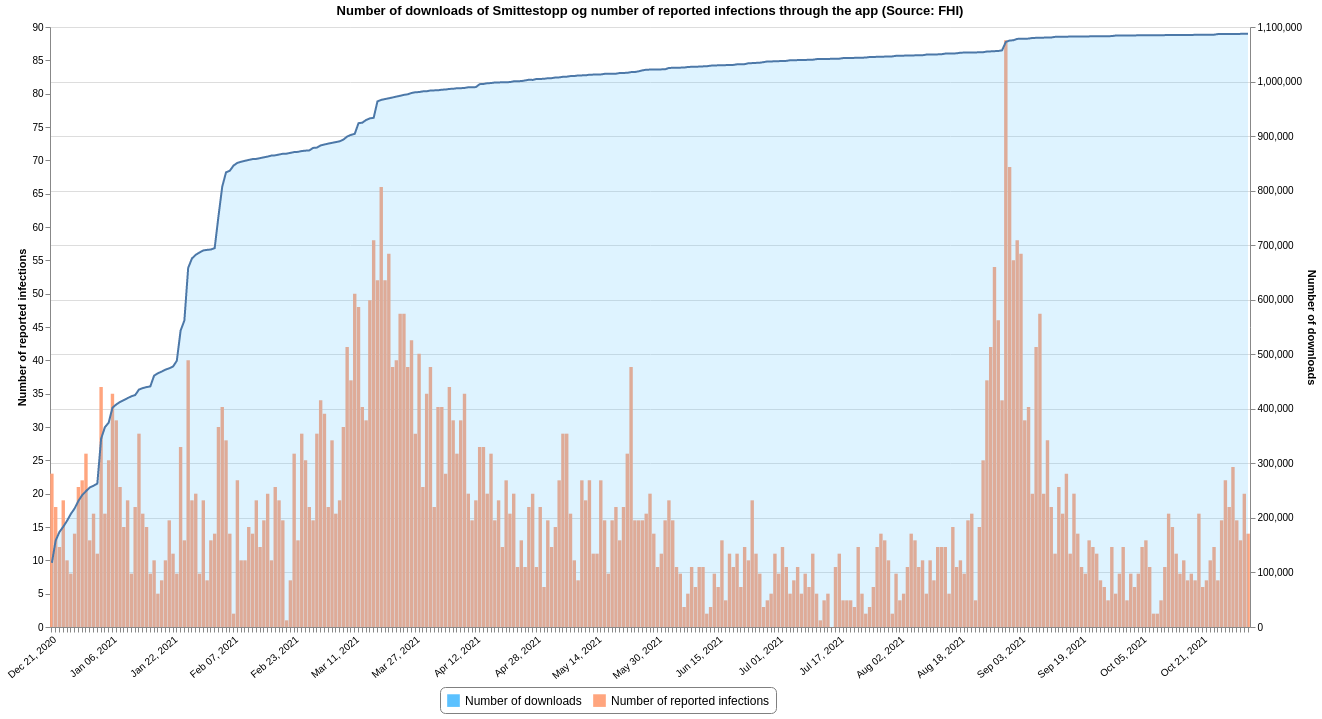
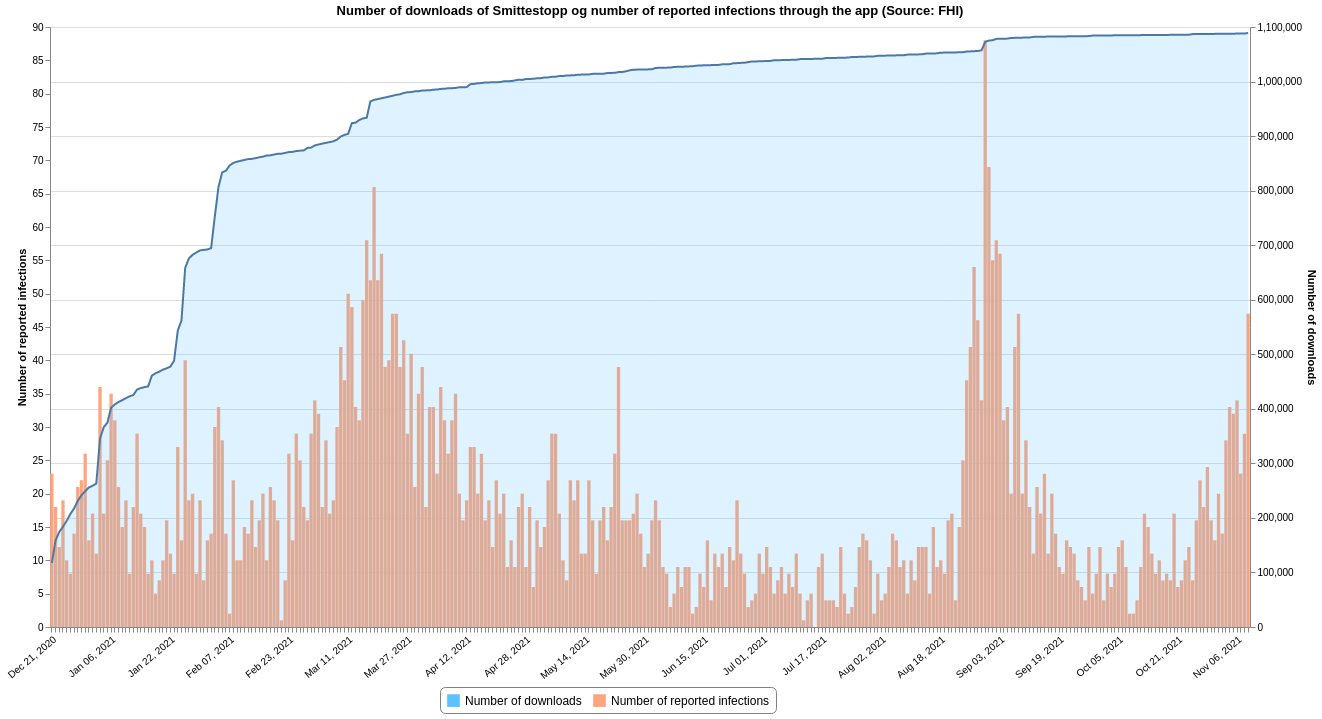
Updated 2021-11-10 16:51

diff --git a/README.md b/README.md
@@ -17,7 +17,7 @@ This repository contains datasets of daily time-series data related to COVID-19 
 |[Tested Lab](#tested_labcsv)|FHI|2021-11-10 13:20:52+01:00|[<center>csv</center>](https://raw.githubusercontent.com/frefrik/covid19norge-data/main/data/tested_lab.csv)|[<center>preview</center>](data/tested_lab.csv)|
 |[Transport](#transportcsv)|FHI|2021-09-24 23:10:46+02:00|[<center>csv</center>](https://raw.githubusercontent.com/frefrik/covid19norge-data/main/data/transport.csv)|[<center>preview</center>](data/transport.csv)|
 |[Vaccine Doses](#vaccine_dosescsv)|FHI|2021-11-10 13:20:58+01:00|[<center>csv</center>](https://raw.githubusercontent.com/frefrik/covid19norge-data/main/data/vaccine_doses.csv)|[<center>preview</center>](data/vaccine_doses.csv)|
-|[Smittestopp](#smittestoppcsv)|FHI|2021-11-03 12:30:54+01:00|[<center>csv</center>](https://raw.githubusercontent.com/frefrik/covid19norge-data/main/data/smittestopp.csv)|[<center>preview</center>](data/smittestopp.csv)|
+|[Smittestopp](#smittestoppcsv)|FHI|2021-11-10 16:51:00+01:00|[<center>csv</center>](https://raw.githubusercontent.com/frefrik/covid19norge-data/main/data/smittestopp.csv)|[<center>preview</center>](data/smittestopp.csv)|
 <!-- table ends -->
 
 ## Datafiles
